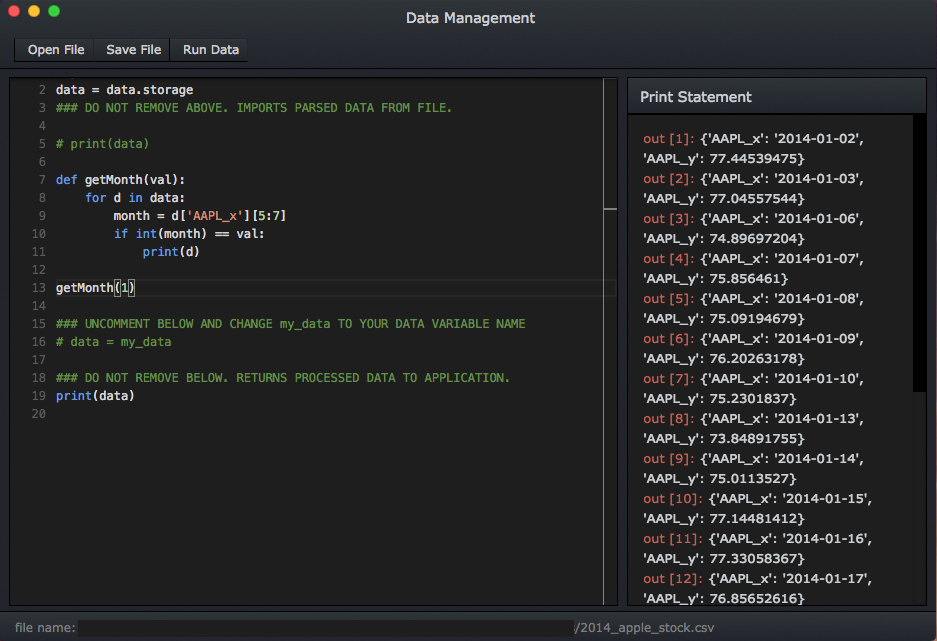
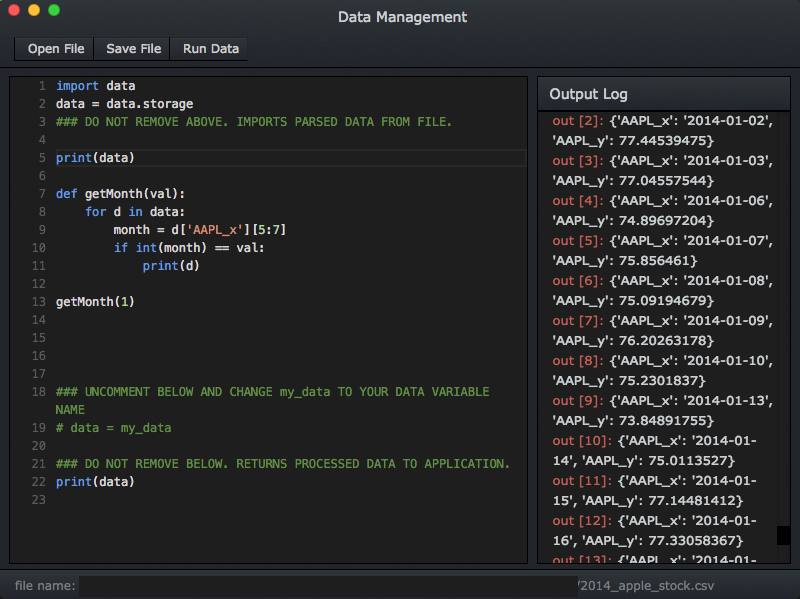
Changed Print Statement to Output Log

diff --git a/src/dataWindow/app/index.html b/src/dataWindow/app/index.html
@@ -50,7 +50,7 @@
                 <div class="pane pane-one-third">
                   <header class="toolbar toolbar-header attr-main-header" style="border: 1px solid black;">
                     <span class="title">
-                      Print Statement
+                      Output Log
                     </span>
                   </header>
                   <div id="console">

diff --git a/src/dataWindow/app/py/processing.py b/src/dataWindow/app/py/processing.py
@@ -2,7 +2,7 @@ import data
 data = data.storage
 ### DO NOT REMOVE ABOVE. IMPORTS PARSED DATA FROM FILE.
 
-# print(data)
+print(data)
 
 def getMonth(val):
     for d in data:

diff --git a/README.md b/README.md
@@ -50,7 +50,7 @@ Note: Refresh the Attribute Panel by clicking `Generate Attr` when you upload a 
   <img alt="iD3 Data Management" src="assets/id3_data_management.jpg">
 </p>
 
-### Data Management
+### Manage your data
 Use your custom data processing algorithms on top of D3's built-in functions with our integrated Python based data management system. This system allows you to feed your .csv or .json files through your personal Python script and check your data in the print statement window before sending it back to the main application to render in your visualization.
 
 ## Resources
